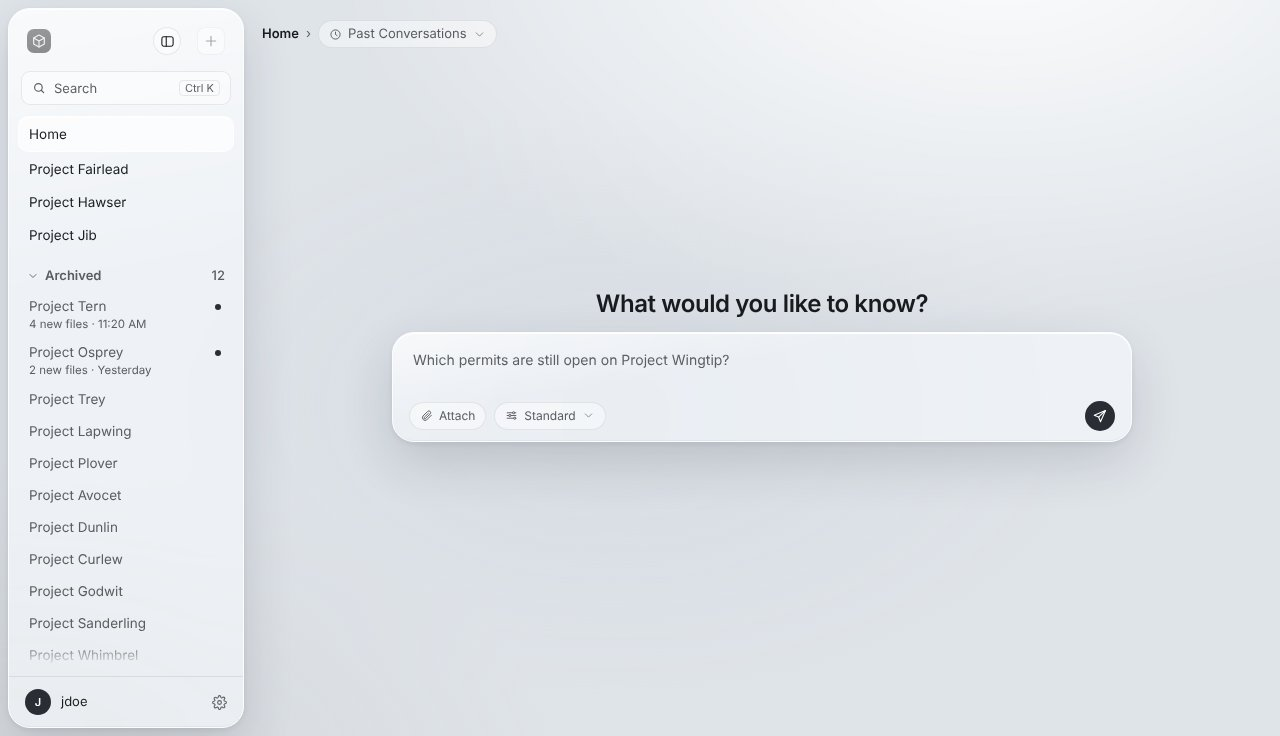
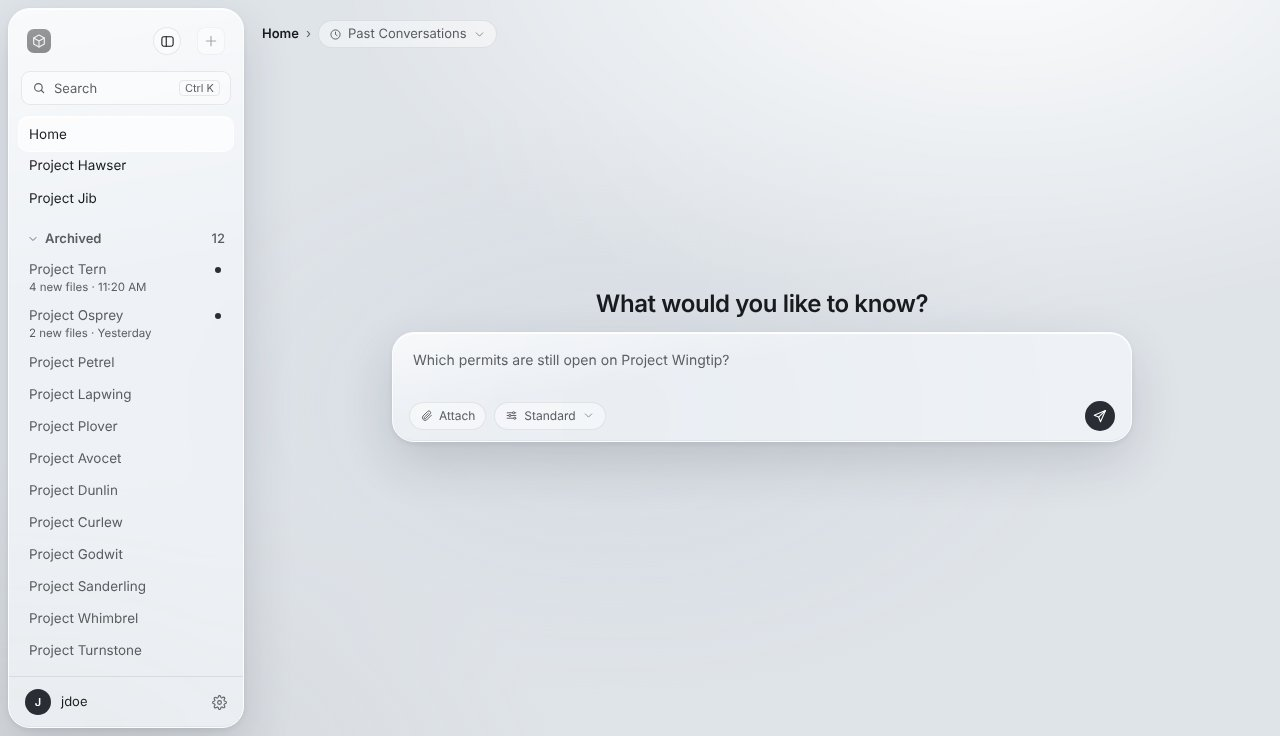
Sort the deal menu, mark findings with their flag, and fit Folders and Archived (#888)

Changed region(s): [[0.0, 0.3125, 0.125, 0.9062], [0.0312, 0.2188, 0.0938, 0.2812]]

diff --git a/docs/deal-screen/mock-open-questions.js b/docs/deal-screen/mock-open-questions.js
@@ -15,15 +15,15 @@ const openQuestionStage = (content) => `<section class="stage"><div class="x-sta
 
 // ---- the deal's ⋯ menu, Deal Details and Folders ----
 
-/** The deal's ⋯ menu: the deal header's controls, with Delete Deal… set apart, as the header's menu has it. */
+/** The deal's ⋯ menu: the deal header's controls A to Z, with Delete Deal… set apart, as the header's menu has it. */
 function dealDetailsMenu() {
   const item = (label, meta = '', extraClass = '') => `<button type="button" role="menuitem" class="mi ${extraClass}">`
     + `${label}${meta ? `<span class="x-mmeta">${meta}</span>` : ''}</button>`;
   return '<div class="colmenu glass x-headmenu" role="menu" aria-label="Project Proseware">'
-    + item('Run Diligence', 'Last run Nov 20')
-    + item('Deal Memo…')
     + item('Deal Details…')
+    + item('Deal Memo…')
     + item('Folders…')
+    + item('Run Diligence', 'Last run Nov 20')
     + '<div class="msep"></div>'
     + item('Delete Deal…', '', 'ddel')
     + '</div>';
@@ -94,7 +94,7 @@ function foldersDialog() {
 
 // ---- the Findings list, as a tab ----
 
-// the open findings of the first two workstreams, A to Z; those marked "May be out of date" come first in a group
+// the open findings of the first two workstreams (A to Z), newest first, with "May be out of date" first in a group
 const FINDING_GROUPS = [
   ['Commercial', 11, [
     ['Offtaker can terminate the revenue contract on a change in law', 'May be out of date'],
@@ -116,11 +116,12 @@ const FINDING_GROUPS = [
   ]],
 ];
 
-/** A finding in the list: its stripe, its title, and its date; its group already names its workstream. */
+/** A finding in the list: the finding's own flag icon, its title, and its date; its group names its workstream. */
 function findingListRow([title, when]) {
   const stale = when === 'May be out of date';
   const meta = stale ? `<span class="x-stale">${when}</span>` : when;
-  return `<div class="x-row x-frow"><span class="mk k-finding"></span><span class="t" title="${title}">${title}`
+  return `<div class="x-row x-frow"><span class="x-fmark" title="Open">${icon('flag', 14)}</span>`
+    + `<span class="t" title="${title}">${title}`
     + `<small>${meta}</small></span><span class="s"></span></div>`;
 }
 
@@ -240,7 +241,7 @@ const MORE_DEALS = ['Project Proseware', 'Project Halyard', 'Project Wingtip', '
 
 // changed deals first, newest change first, then the rest by when the person last worked on them
 const MORE_ARCHIVED = [['Project Tern', '4 new files · 11:20 AM'], ['Project Osprey', '2 new files · Yesterday'],
-  ['Project Trey', ''], ['Project Lapwing', ''], ['Project Plover', ''], ['Project Avocet', ''],
+  ['Project Petrel', ''], ['Project Lapwing', ''], ['Project Plover', ''], ['Project Avocet', ''],
   ['Project Dunlin', ''], ['Project Curlew', ''], ['Project Godwit', ''], ['Project Sanderling', ''],
   ['Project Whimbrel', ''], ['Project Turnstone', '']];
 
@@ -251,13 +252,13 @@ function fillSidebarAtScale() {
   const head = `<button type="button" class="grp-h"><span class="tri open">${icon('chevr', 12)}</span>Archived`
     + `<span class="cnt">${MORE_ARCHIVED.length}</span></button>`;
   document.querySelector('.rail .x-archgrp').innerHTML = head + MORE_ARCHIVED.map(archivedRow).join('');
-  // Home stays in place and only the deals scroll; a few of the deals above Archived stay in view
+  // Home stays in place and only the deals scroll, here to the end of Archived
   document.querySelector('.rail').classList.add('x-scale');
   const list = document.createElement('div');
   list.className = 'x-dealscroll';
   list.append(document.querySelector('.rail .x-deals'), document.querySelector('.rail .x-archgrp'));
   document.querySelector('.rail nav').append(list);
-  list.scrollTop = document.querySelector('.rail .x-archgrp').offsetTop - list.offsetTop - 110;
+  list.scrollTop = list.scrollHeight;
 }
 
 // ---- the screens, and what is placed once they are on the page ----

diff --git a/docs/deal-screen/mock-open-questions.css b/docs/deal-screen/mock-open-questions.css
@@ -38,10 +38,6 @@
 }
 
 /* Folders: the core documents and a deal sharing these files sit under the folders, set off by a hairline */
-.x-folders .fdbody {
-  max-height: calc(100vh - 220px);
-  overflow: auto;
-}
 .x-folders .fdgroup {
   margin: 0;
   padding: 0;
@@ -96,10 +92,16 @@
   -webkit-line-clamp: 3;
 }
 .x-stale {
-  color: var(--high);
+  color: var(--ink-2);
+  font-style: italic;
 }
-.x-frow .mk.k-finding:before {
-  height: 34px;
+/* an open finding's mark is the finding's own flag, in the open (red) color, at the title's line */
+.x-frow .x-fmark {
+  align-self: start;
+  display: grid;
+  place-items: center;
+  height: 20px;
+  color: var(--high);
 }
 
 /* a past conversation with a new result shows the archived deals' dot before its time, so times stay aligned */
@@ -118,7 +120,6 @@
   flex: 1;
   min-height: 0;
   overflow: auto;
-  mask-image: linear-gradient(to bottom, #000 calc(100% - 24px), transparent);
 }
 .rail.x-scale .rsearch {
   flex: none;

diff --git a/docs/deal-screen-design.md b/docs/deal-screen-design.md
@@ -62,4 +62,4 @@ Screens 27 to 34 propose answers to the points the screens above left open. They
 | 31 | [Findings tab](deal-screen/shots/31-findings-tab-light-1280x736.jpg) | The full list of findings as a tab, with the Findings page's controls |
 | 32 | [Needs Input](deal-screen/shots/32-tasks-needs-input-light-1280x736.jpg) | What Needs Input holds, and a task waiting for a reply |
 | 33 | [Home's past conversations](deal-screen/shots/33-home-past-conversations-light-1280x736.jpg) | Home's history button, with a conversation that has a new result |
-| 34 | [Archived at scale](deal-screen/shots/34-archived-at-scale-light-1280x736.jpg) | 28 deals and 12 archived ones, changed deals first |
+| 34 | [Archived at scale](deal-screen/shots/34-archived-at-scale-light-1280x736.jpg) | The end of a 40-deal list, with all 12 archived deals and changed ones first |
